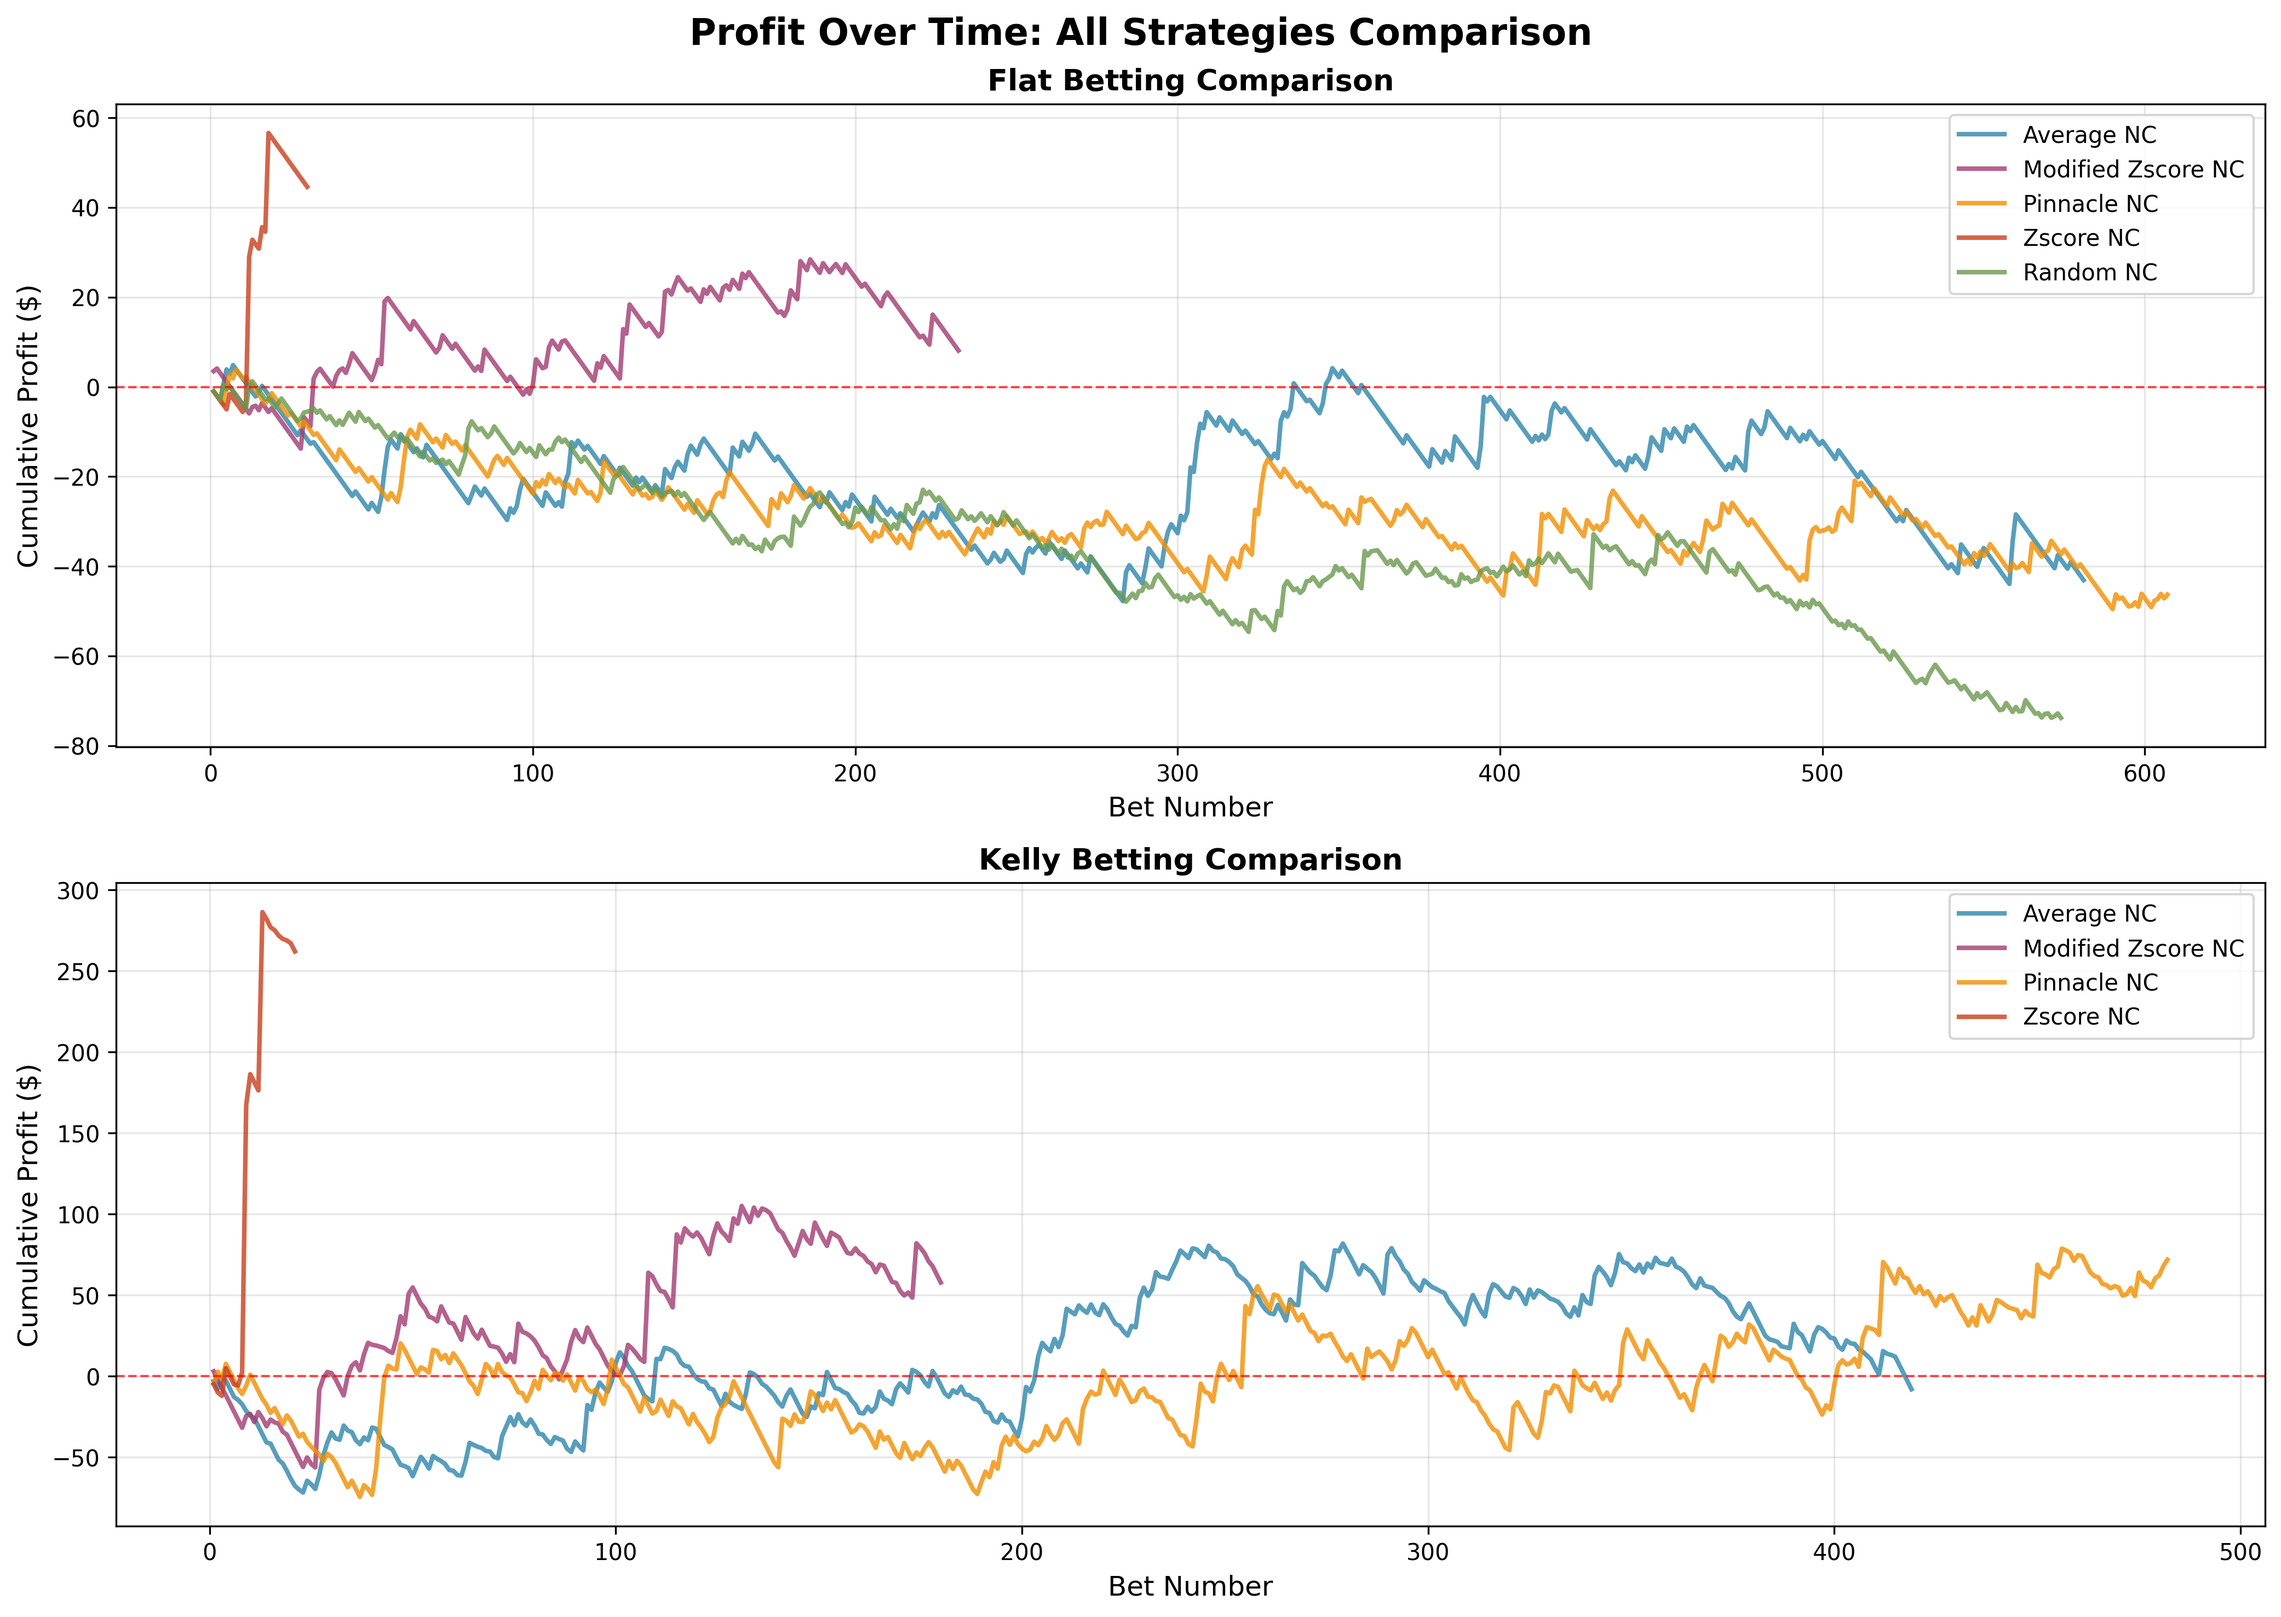
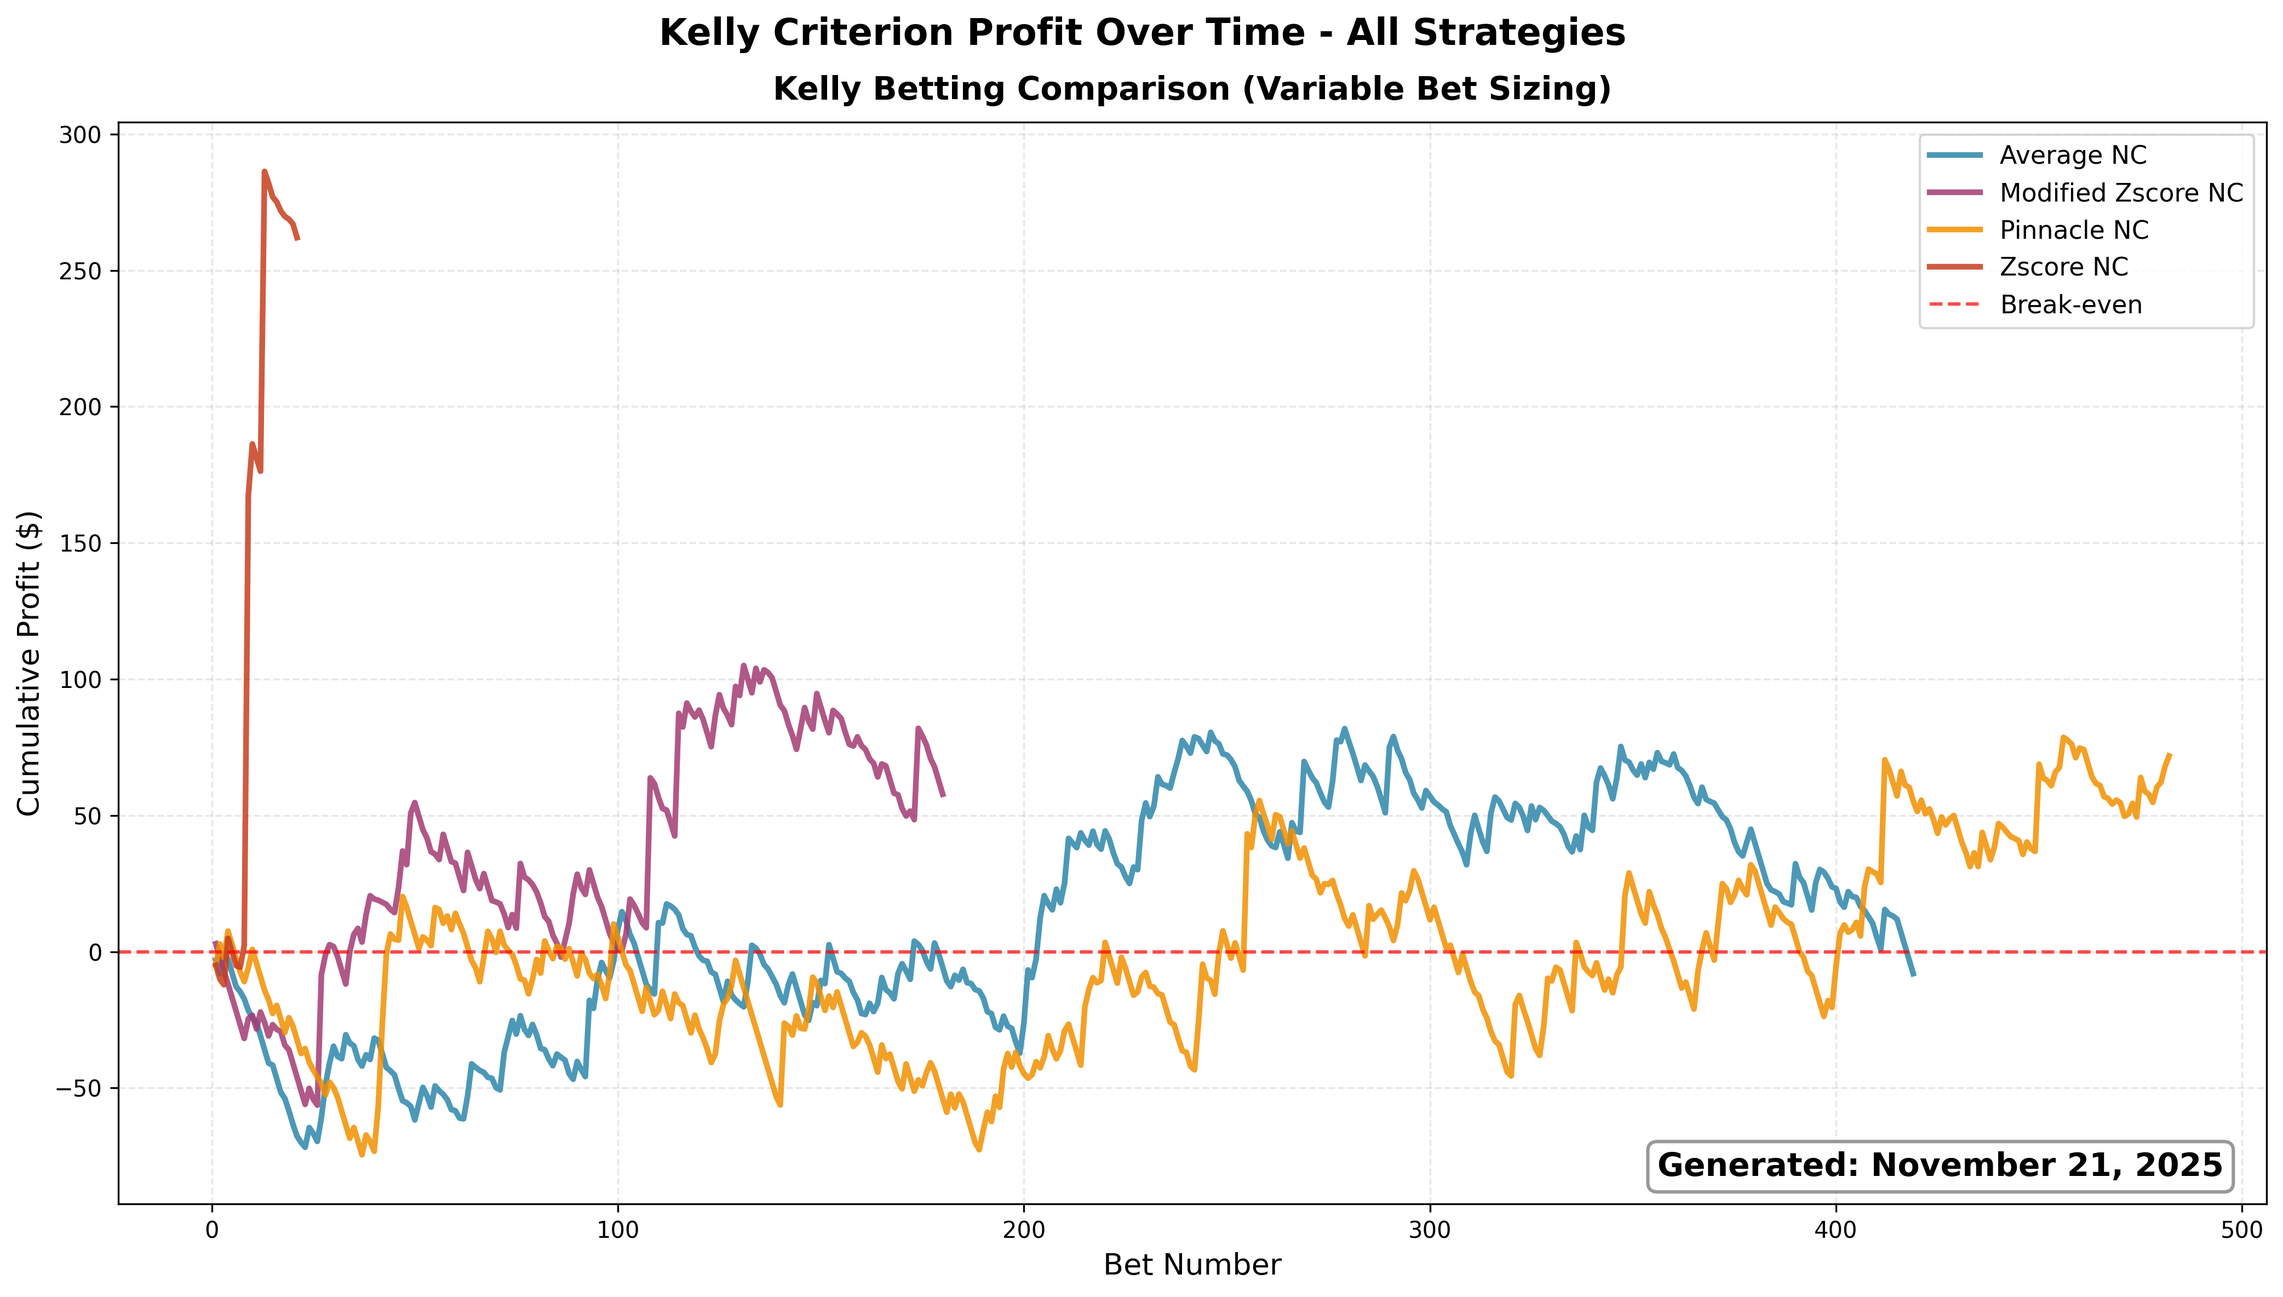
update result charts

diff --git a/codebase/analysis/profit_over_time.py b/codebase/analysis/profit_over_time.py
@@ -57,7 +57,7 @@ STRATEGIES = [
 KELLY_FRACTION = 0.75
 
 # EV threshold - only place bets with EV above this percentage
-MIN_EV_THRESHOLD = 0.05  # 2% minimum EV to place bet
+MIN_EV_THRESHOLD = 0.05  # 5% minimum EV to place bet
 
 # Z-score threshold for max bet
 ZSCORE_MAX_BET_THRESHOLD = 3.5
@@ -190,6 +190,8 @@ def calculate_cumulative_profit_kelly(df, odds_col, fair_col, ev_col=None, zscor
 def plot_profit_over_time(strategy, save_fig=False):
     """
     Create profit over time visualization for a strategy.
+    For Random strategy: shows flat betting
+    For others: shows Kelly betting only
     
     Args:
         strategy: BettingStrategy object
@@ -197,38 +199,46 @@ def plot_profit_over_time(strategy, save_fig=False):
     """
     df = pd.read_csv(strategy.path)
     
-    # Calculate profits for both methods
-    flat_profit = calculate_cumulative_profit_flat(df, strategy.odds_column)
+    # Get current date
+    current_date = datetime.now().strftime('%B %d, %Y')
     
-    fig, axes = plt.subplots(2, 1, figsize=(14, 10))
-    fig.suptitle(f'Profit Over Time: {strategy.name}', fontsize=16, fontweight='bold')
+    fig, ax = plt.subplots(1, 1, figsize=(14, 8))
     
-    # Plot 1: Flat Betting
-    axes[0].plot(flat_profit['Bet_Number'], flat_profit['Cumulative_Profit'], 
-                 linewidth=2, color='#2E86AB', label='Flat Betting')
-    axes[0].axhline(y=0, color='red', linestyle='--', linewidth=1, alpha=0.7)
-    axes[0].set_xlabel('Bet Number', fontsize=12)
-    axes[0].set_ylabel('Cumulative Profit ($)', fontsize=12)
-    axes[0].set_title('Flat Betting ($1 per bet)', fontsize=13, fontweight='bold')
-    axes[0].grid(True, alpha=0.3)
-    axes[0].legend(fontsize=11)
-    
-    # Add summary statistics
-    final_profit_flat = flat_profit['Cumulative_Profit'].iloc[-1]
-    total_bets_flat = len(flat_profit)
-    roi_flat = (final_profit_flat / total_bets_flat) * 100
-    
-    axes[0].text(0.02, 0.98, 
+    # Check if this is the Random strategy (no EV column)
+    if not strategy.ev_column:
+        # Plot flat betting for Random strategy
+        fig.suptitle(f'Flat Betting Profit Over Time: {strategy.name}', 
+                     fontsize=16, fontweight='bold')
+        
+        flat_profit = calculate_cumulative_profit_flat(df, strategy.odds_column)
+        
+        ax.plot(flat_profit['Bet_Number'], flat_profit['Cumulative_Profit'], 
+                linewidth=2.5, color='#2E86AB', label='Flat Betting')
+        ax.axhline(y=0, color='red', linestyle='--', linewidth=1.5, alpha=0.7, label='Break-even')
+        ax.set_xlabel('Bet Number', fontsize=13)
+        ax.set_ylabel('Cumulative Profit ($)', fontsize=13)
+        ax.set_title('Flat Betting ($1 per bet)', fontsize=14, fontweight='bold', pad=10)
+        ax.grid(True, alpha=0.3, linestyle='--')
+        ax.legend(fontsize=11)
+        
+        # Add summary statistics
+        final_profit_flat = flat_profit['Cumulative_Profit'].iloc[-1]
+        total_bets_flat = len(flat_profit)
+        roi_flat = (final_profit_flat / total_bets_flat) * 100
+        
+        ax.text(0.02, 0.98, 
                 f'Final Profit: ${final_profit_flat:.2f}\n'
                 f'Total Bets: {total_bets_flat}\n'
                 f'ROI: {roi_flat:.2f}%',
-                transform=axes[0].transAxes,
+                transform=ax.transAxes,
                 verticalalignment='top',
                 bbox=dict(boxstyle='round', facecolor='wheat', alpha=0.8),
                 fontsize=10)
-    
-    # Plot 2: Kelly Betting (if applicable)
-    if strategy.ev_column:
+    else:
+        # Plot Kelly betting for other strategies
+        fig.suptitle(f'Kelly Criterion Profit Over Time: {strategy.name}', 
+                     fontsize=16, fontweight='bold')
+        
         kelly_profit = calculate_cumulative_profit_kelly(
             df, 
             strategy.odds_column, 
@@ -238,14 +248,14 @@ def plot_profit_over_time(strategy, save_fig=False):
         )
         
         if not kelly_profit.empty:
-            axes[1].plot(kelly_profit['Bet_Number'], kelly_profit['Cumulative_Profit'], 
-                        linewidth=2, color='#A23B72', label='Kelly Betting')
-            axes[1].axhline(y=0, color='red', linestyle='--', linewidth=1, alpha=0.7)
-            axes[1].set_xlabel('Bet Number', fontsize=12)
-            axes[1].set_ylabel('Cumulative Profit ($)', fontsize=12)
-            axes[1].set_title('Kelly Betting (Variable Bet Sizing)', fontsize=13, fontweight='bold')
-            axes[1].grid(True, alpha=0.3)
-            axes[1].legend(fontsize=11)
+            ax.plot(kelly_profit['Bet_Number'], kelly_profit['Cumulative_Profit'], 
+                    linewidth=2.5, color='#A23B72', label='Kelly Betting')
+            ax.axhline(y=0, color='red', linestyle='--', linewidth=1.5, alpha=0.7, label='Break-even')
+            ax.set_xlabel('Bet Number', fontsize=13)
+            ax.set_ylabel('Cumulative Profit ($)', fontsize=13)
+            ax.set_title('Kelly Betting (Variable Bet Sizing)', fontsize=14, fontweight='bold', pad=10)
+            ax.grid(True, alpha=0.3, linestyle='--')
+            ax.legend(fontsize=11)
             
             # Add summary statistics
             final_profit_kelly = kelly_profit['Cumulative_Profit'].iloc[-1]
@@ -253,33 +263,34 @@ def plot_profit_over_time(strategy, save_fig=False):
             total_bets_kelly = len(kelly_profit)
             roi_kelly = (final_profit_kelly / total_wagered_kelly) * 100
             
-            axes[1].text(0.02, 0.98, 
-                        f'Final Profit: ${final_profit_kelly:.2f}\n'
-                        f'Total Wagered: ${total_wagered_kelly:.2f}\n'
-                        f'Bets Placed: {total_bets_kelly}\n'
-                        f'ROI: {roi_kelly:.2f}%',
-                        transform=axes[1].transAxes,
-                        verticalalignment='top',
-                        bbox=dict(boxstyle='round', facecolor='lightblue', alpha=0.8),
-                        fontsize=10)
+            ax.text(0.02, 0.98, 
+                    f'Final Profit: ${final_profit_kelly:.2f}\n'
+                    f'Total Wagered: ${total_wagered_kelly:.2f}\n'
+                    f'Bets Placed: {total_bets_kelly}\n'
+                    f'ROI: {roi_kelly:.2f}%',
+                    transform=ax.transAxes,
+                    verticalalignment='top',
+                    bbox=dict(boxstyle='round', facecolor='lightblue', alpha=0.8),
+                    fontsize=10)
         else:
-            axes[1].text(0.5, 0.5, 'No Kelly bets placed (all filtered out)',
-                        horizontalalignment='center',
-                        verticalalignment='center',
-                        transform=axes[1].transAxes,
-                        fontsize=14)
-            axes[1].set_xlabel('Bet Number', fontsize=12)
-            axes[1].set_ylabel('Cumulative Profit ($)', fontsize=12)
-            axes[1].set_title('Kelly Betting (Variable Bet Sizing)', fontsize=13, fontweight='bold')
-    else:
-        axes[1].text(0.5, 0.5, 'Kelly betting not available (no EV column)',
+            ax.text(0.5, 0.5, 'No Kelly bets placed (all filtered out)',
                     horizontalalignment='center',
                     verticalalignment='center',
-                    transform=axes[1].transAxes,
+                    transform=ax.transAxes,
                     fontsize=14)
-        axes[1].set_xlabel('Bet Number', fontsize=12)
-        axes[1].set_ylabel('Cumulative Profit ($)', fontsize=12)
-        axes[1].set_title('Kelly Betting (Variable Bet Sizing)', fontsize=13, fontweight='bold')
+            ax.set_xlabel('Bet Number', fontsize=13)
+            ax.set_ylabel('Cumulative Profit ($)', fontsize=13)
+            ax.set_title('Kelly Betting (Variable Bet Sizing)', fontsize=14, fontweight='bold', pad=10)
+    
+    # Add date stamp in bottom right corner (LARGER)
+    ax.text(0.98, 0.02, 
+            f'Generated: {current_date}',
+            transform=ax.transAxes,
+            verticalalignment='bottom',
+            horizontalalignment='right',
+            bbox=dict(boxstyle='round', facecolor='white', alpha=0.8, edgecolor='gray', linewidth=1.5),
+            fontsize=14,
+            fontweight='bold')
     
     plt.tight_layout()
     
@@ -293,32 +304,21 @@ def plot_profit_over_time(strategy, save_fig=False):
 
 def plot_comparison_all_strategies(save_fig=False):
     """
-    Create a comparison plot showing all strategies on the same chart.
+    Create a comparison plot showing Kelly betting for all strategies.
     
     Args:
         save_fig: Whether to save the figure to disk
     """
-    fig, axes = plt.subplots(2, 1, figsize=(14, 10))
-    fig.suptitle('Profit Over Time: All Strategies Comparison', fontsize=16, fontweight='bold')
+    fig, ax = plt.subplots(1, 1, figsize=(14, 8))
+    
+    # Get current date
+    current_date = datetime.now().strftime('%B %d, %Y')
+    fig.suptitle(f'Kelly Criterion Profit Over Time - All Strategies', 
+                 fontsize=16, fontweight='bold')
     
     colors = ['#2E86AB', '#A23B72', '#F18F01', '#C73E1D', '#6A994E']
     
-    # Plot 1: Flat Betting Comparison
-    for i, strategy in enumerate(STRATEGIES):
-        df = pd.read_csv(strategy.path)
-        flat_profit = calculate_cumulative_profit_flat(df, strategy.odds_column)
-        
-        axes[0].plot(flat_profit['Bet_Number'], flat_profit['Cumulative_Profit'], 
-                    linewidth=2, color=colors[i % len(colors)], label=strategy.name, alpha=0.8)
-    
-    axes[0].axhline(y=0, color='red', linestyle='--', linewidth=1, alpha=0.7)
-    axes[0].set_xlabel('Bet Number', fontsize=12)
-    axes[0].set_ylabel('Cumulative Profit ($)', fontsize=12)
-    axes[0].set_title('Flat Betting Comparison', fontsize=13, fontweight='bold')
-    axes[0].grid(True, alpha=0.3)
-    axes[0].legend(fontsize=10)
-    
-    # Plot 2: Kelly Betting Comparison
+    # Plot Kelly Betting for all strategies
     for i, strategy in enumerate(STRATEGIES):
         if strategy.ev_column:
             df = pd.read_csv(strategy.path)
@@ -331,15 +331,25 @@ def plot_comparison_all_strategies(save_fig=False):
             )
             
             if not kelly_profit.empty:
-                axes[1].plot(kelly_profit['Bet_Number'], kelly_profit['Cumulative_Profit'], 
-                            linewidth=2, color=colors[i % len(colors)], label=strategy.name, alpha=0.8)
+                ax.plot(kelly_profit['Bet_Number'], kelly_profit['Cumulative_Profit'], 
+                        linewidth=2.5, color=colors[i % len(colors)], label=strategy.name, alpha=0.85)
     
-    axes[1].axhline(y=0, color='red', linestyle='--', linewidth=1, alpha=0.7)
-    axes[1].set_xlabel('Bet Number', fontsize=12)
-    axes[1].set_ylabel('Cumulative Profit ($)', fontsize=12)
-    axes[1].set_title('Kelly Betting Comparison', fontsize=13, fontweight='bold')
-    axes[1].grid(True, alpha=0.3)
-    axes[1].legend(fontsize=10)
+    ax.axhline(y=0, color='red', linestyle='--', linewidth=1.5, alpha=0.7, label='Break-even')
+    ax.set_xlabel('Bet Number', fontsize=13)
+    ax.set_ylabel('Cumulative Profit ($)', fontsize=13)
+    ax.set_title('Kelly Betting Comparison (Variable Bet Sizing)', fontsize=14, fontweight='bold', pad=10)
+    ax.grid(True, alpha=0.3, linestyle='--')
+    ax.legend(fontsize=11, loc='best')
+    
+    # Add date stamp in bottom right corner (LARGER)
+    ax.text(0.98, 0.02, 
+            f'Generated: {current_date}',
+            transform=ax.transAxes,
+            verticalalignment='bottom',
+            horizontalalignment='right',
+            bbox=dict(boxstyle='round', facecolor='white', alpha=0.8, edgecolor='gray', linewidth=1.5),
+            fontsize=14,
+            fontweight='bold')
     
     plt.tight_layout()
     
@@ -369,12 +379,13 @@ def main():
     print("=" * 70)
     
     # Option 1: Plot each strategy individually
+    # Kelly betting for strategies with EV, flat betting for Random
     for strategy in STRATEGIES:
         print(f"\nPlotting: {strategy.name}")
         plot_profit_over_time(strategy, save_fig=True)
     
-    # Option 2: Plot all strategies together for comparison
-    print("\nPlotting comparison of all strategies...")
+    # Option 2: Plot all strategies together for comparison (Kelly only)
+    print("\nPlotting Kelly betting comparison of all strategies...")
     plot_comparison_all_strategies(save_fig=True)
     
     print("\n" + "=" * 70)
